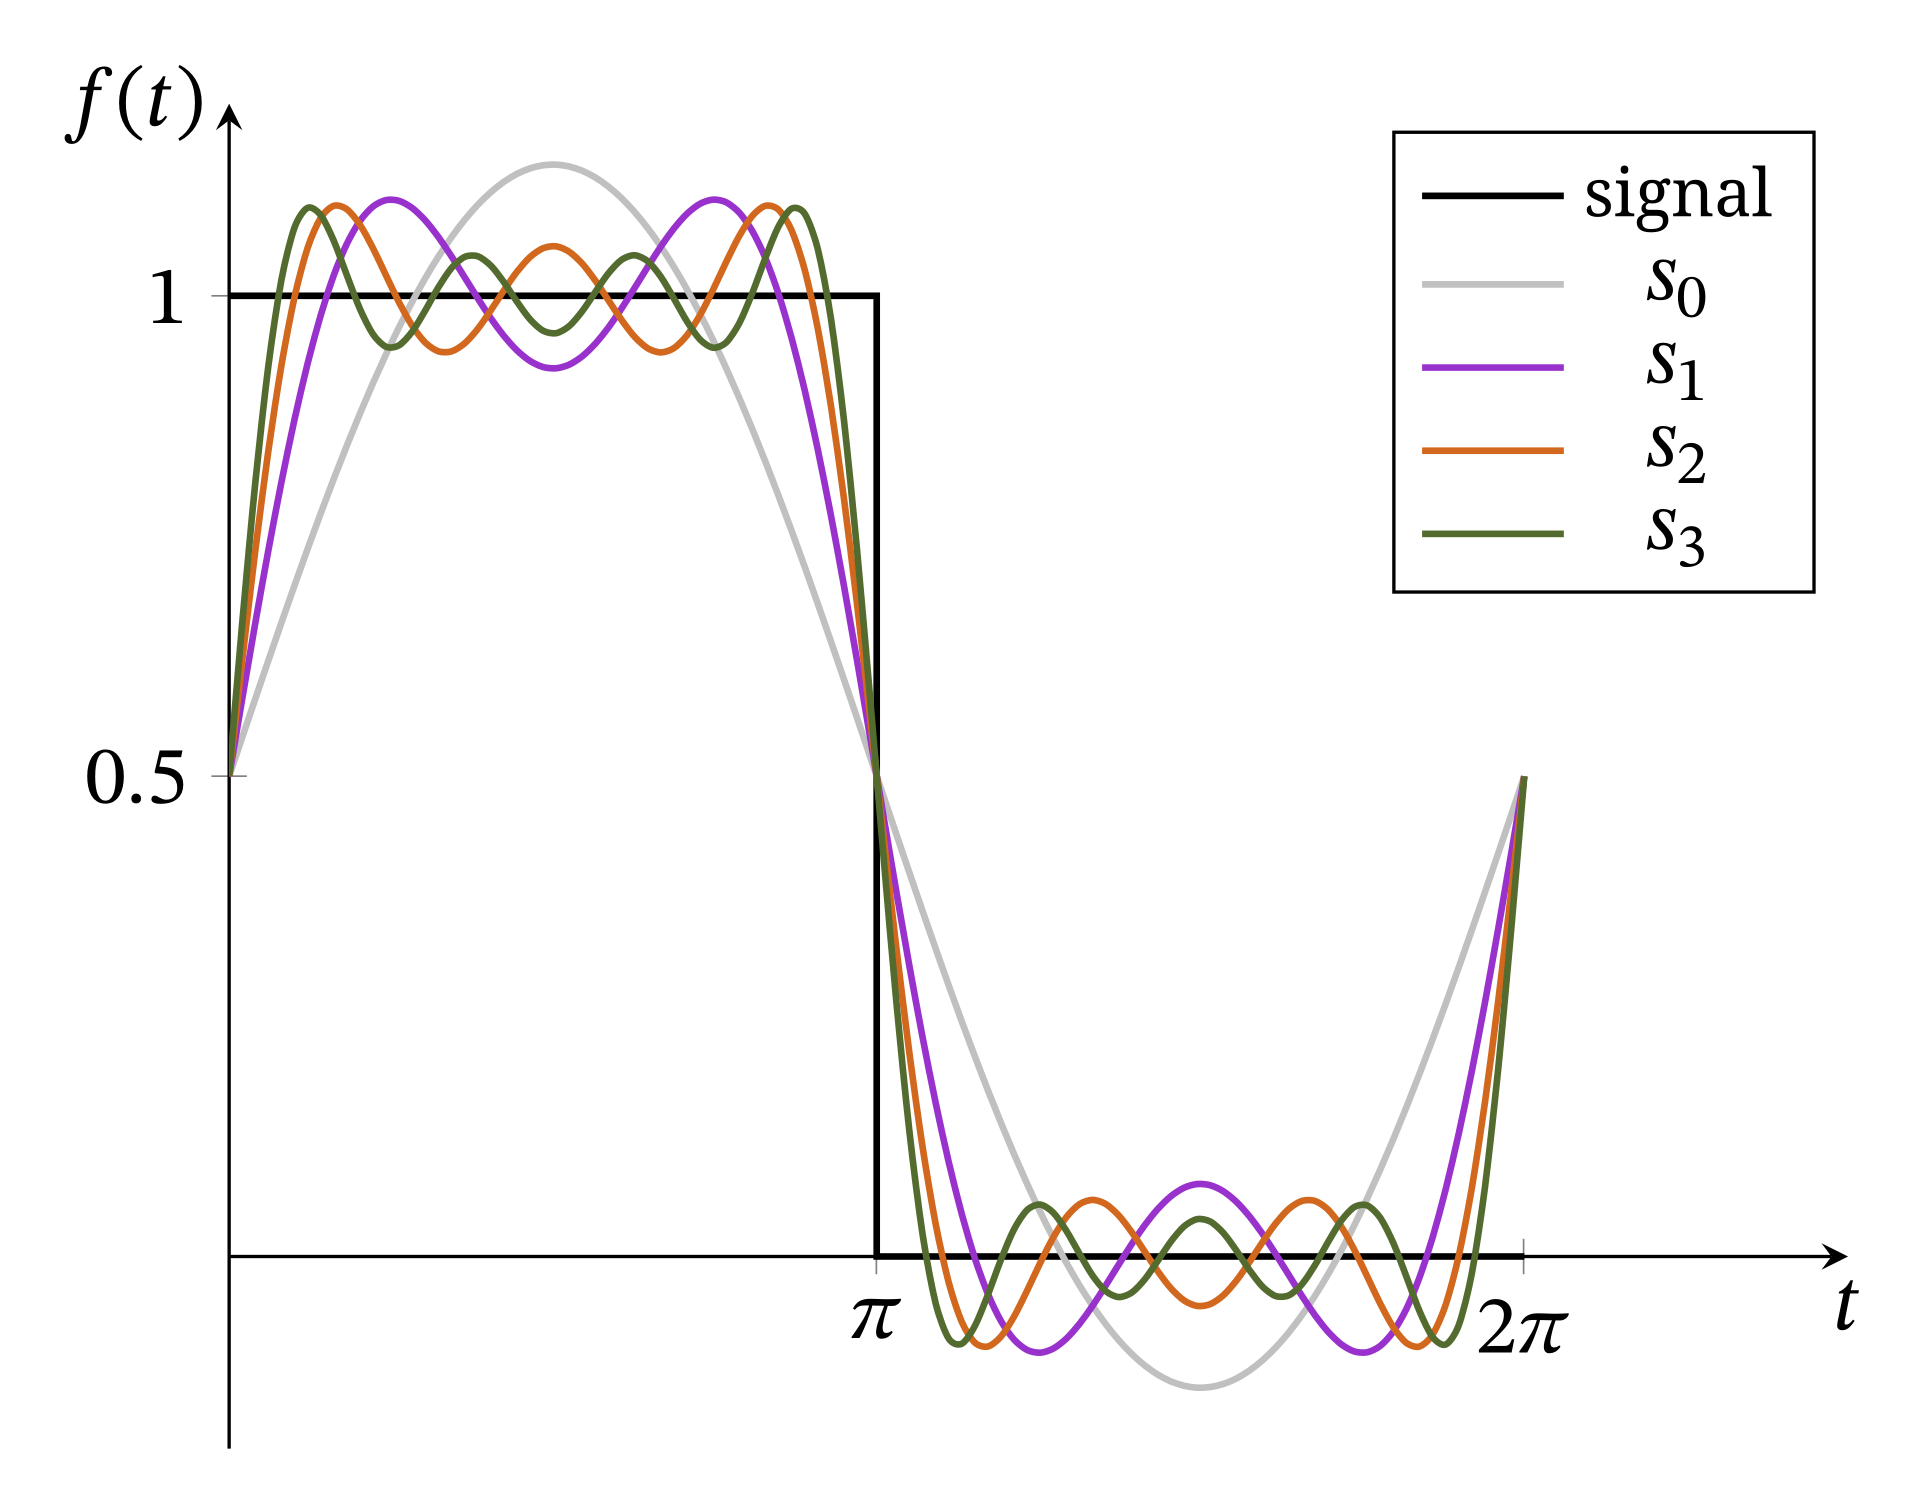
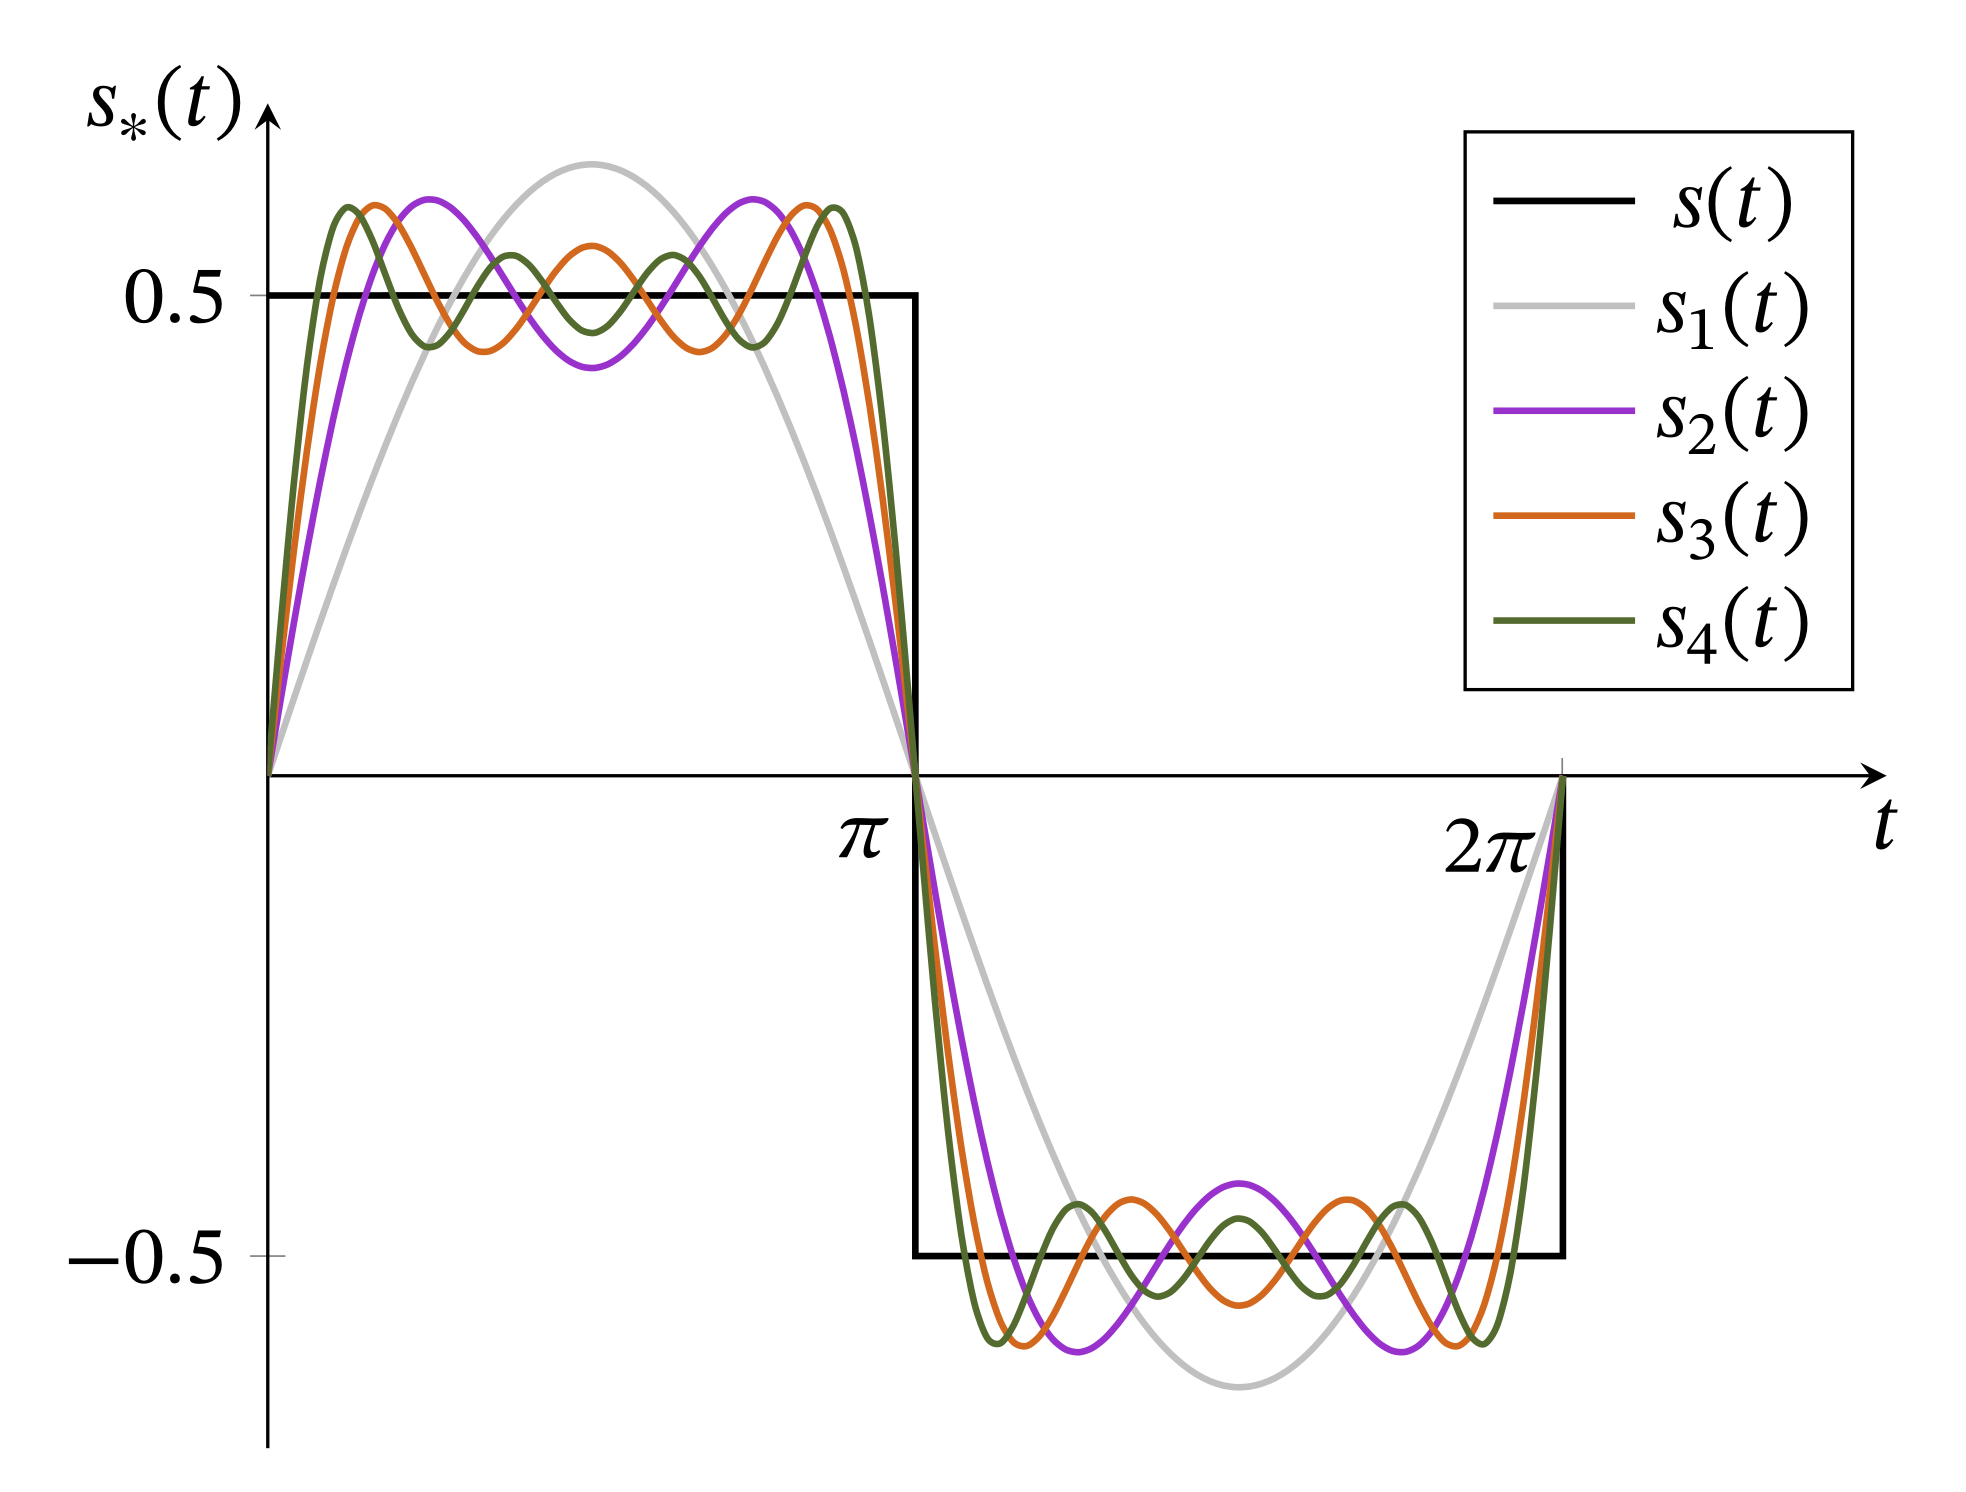
Updated website content

diff --git a/content/blogs/radians/radians.md b/content/blogs/radians/radians.md
@@ -181,17 +181,19 @@ For example, let the original signal be a square waveform denoted by the functio
 
 ![A square waveform $s(t)$ and the sequential sums of its first four terms.]({attach}images/squarefourier.png){#fig:squarefourier width=80% .modal-target}
 
-The Fourier series representation of the square wave $s(t)$ is given by:
+The [Fourier series](https://mathworld.wolfram.com/FourierSeries.html) for such a square waveform is an infinite sum of sinusoids that collectively represent the waveform. This might seem like a tall order but it is nevertheless true. The Fourier series representation of the square wave $s(t)$ is given by:
 $$
-s(t) = \frac{2}{\pi}\left[\sin(t) + \frac{\sin(3t)}{3} + \frac{\sin(5t)}{5} +  \frac{\sin(7t)} {7} + \cdots
+s(t) = \frac{2}{\pi}\left[\sin(t) + \frac{\sin(3t)}{3} + \frac{\sin(5t)}{5} +  \frac{\sin(7t)} {7} + \cdots\right]
 $${#eq:squarefourier}
 where again, the dots mean that the pattern repeats forever.
+
+The successive partial sums of the right hand side of @eq:squarefourier are denoted as $s_1(t)$, $s_2(t)$, etc., denoting the first term, the sum of the first and second term etc. It is evident that the more terms we add, the better the match between the original signal and its approximation, denoted generically by $s_*(t)$ in the graph..
 
 On the surface, @eq:squarefourier seems a remarkable claim. How could a square wave with right angle corners be the result of sums of sine waves which have no corners? The answer is that the series goes on forever, "infinity confers the equality".
 
 Where do radians feature here? As with the power series for the sine function, it is on the right hand side where the variable $t$ should be expressed in radians. Note that while $t$ may have units of time, the fact that radians are unitless does not intrude into the equation as an extraneous factor.
 
-The [Fourier series](https://mathworld.wolfram.com/FourierSeries.html) for such a square waveform is an infinite sum of sinusoids that collectively represent the waveform. This might seem like a tall order but it is nevertheless true.
+
 
 
 
